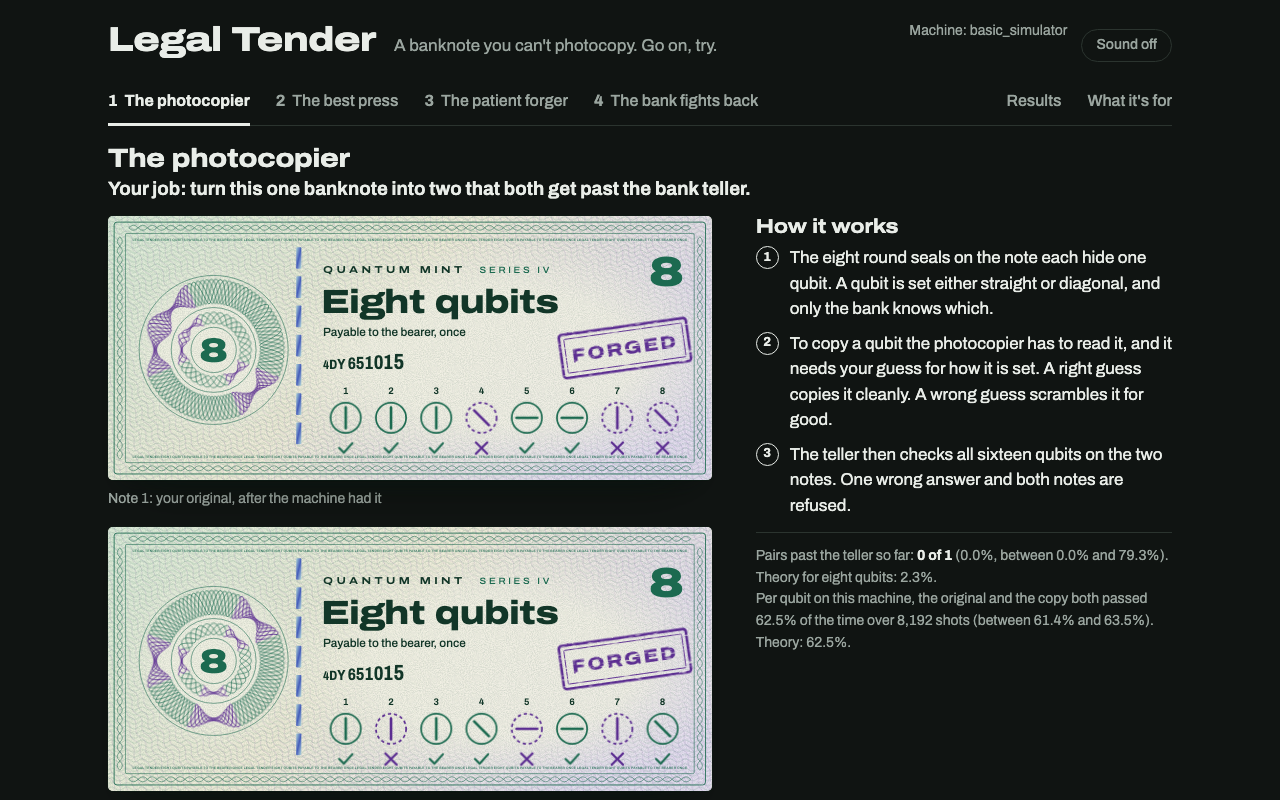
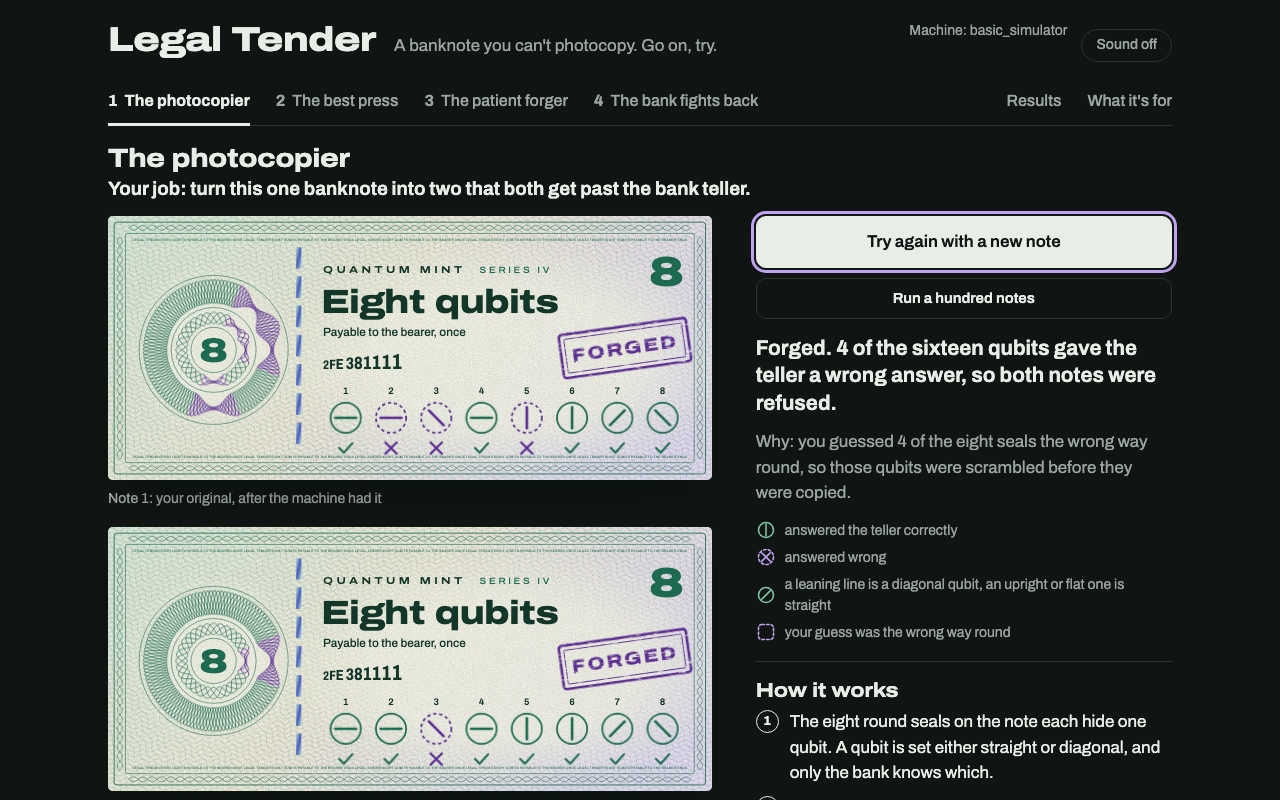
Put the buttons and the verdict beside the note so the first screen needs no scrolling

diff --git a/legal-tender/main.js b/legal-tender/main.js
@@ -624,12 +624,14 @@ function renderCopy(kind, { headline = '', grid = '', animate = false } = {}) {
         ${notes}
         ${guessRow}
         ${grid}
-        <p class="verdict-line${late}>${verdict}</p>
-        <p class="why${late}>${why}</p>
-        <div class="row${late}>${buttons}</div>
-        <div class="legend${late}>${key}</div>
       </div>
       <aside class="panel">
+        <div class="controls">
+          <div class="row${late}>${buttons}</div>
+          <p class="verdict-line${late}>${verdict}</p>
+          <p class="why${late}>${why}</p>
+          <div class="legend${late}>${key}</div>
+        </div>
         <h3>How it works</h3>
         <ol class="steps">${c.steps.map((step) => `<li>${step}</li>`).join('')}</ol>
         ${kind === 'press' ? proofLine() : ''}
@@ -758,13 +760,15 @@ function renderUpgrade({ headline = '', grid = '', animate = false } = {}) {
         <p class="hint">${S.ways === 'six' ? 'Straight, diagonal or circular. The forger has a third thing to get wrong.' : 'Straight or diagonal. This is the note from the first three acts.'}</p>
         ${notes}
         ${grid}
-        <p class="verdict-line${late}>${verdict}</p>
-        <p class="why${late}>${why}</p>
-        <div class="row${late}>${buttons}</div>
-        <div class="legend${late}>${key}</div>
         <p class="tally">${tally}</p>
       </div>
       <aside class="panel">
+        <div class="controls">
+          <div class="row${late}>${buttons}</div>
+          <p class="verdict-line${late}>${verdict}</p>
+          <p class="why${late}>${why}</p>
+          <div class="legend${late}>${key}</div>
+        </div>
         <h3>How it works</h3>
         <ol class="steps">
           <li>The forger's best press was built for the note you have been printing, which sets each qubit one of four ways.</li>
@@ -965,6 +969,7 @@ function renderPatient({ headline = '', grid = '', animate = false, part = 'heis
   const heist = hasHeist();
   const mine = (key) => (part === key ? { headline, grid, animate } : { headline: '', grid: '', animate: false });
   let desk = '';
+  let controls = '';
   let how;
   if (heist) {
     const options = heistChoices();
@@ -1003,10 +1008,12 @@ function renderPatient({ headline = '', grid = '', animate = false, part = 'heis
     desk = `${notes}
       <div class="guess-row heist-row"><p class="guess-label">Visits per probe</p><div class="choice" id="heist-visits" role="group" aria-label="Visits to the teller for each probe">${options.map((n) => `<button data-n="${n}" aria-pressed="${n === N}">${n}</button>`).join('')}</div></div>
       ${m.grid}
-      <p class="verdict-line${late}>${verdict}</p>
-      <p class="why${late}>${why}</p>
-      <div class="row${late}><button class="do" id="heist">${h && !m.grid ? 'Try again with a new note' : 'Start the heist'}</button><button class="do quiet" id="heists">Run a hundred heists</button></div>
       <p class="tally">${tally}</p>`;
+    controls = `<div class="controls">
+        <div class="row${late}><button class="do" id="heist">${h && !m.grid ? 'Try again with a new note' : 'Start the heist'}</button><button class="do quiet" id="heists">Run a hundred heists</button></div>
+        <p class="verdict-line${late}>${verdict}</p>
+        <p class="why${late}>${why}</p>
+      </div>`;
     how = `<li>This only works if the teller hands a good note back after checking it.</li>
       <li>The forger touches one qubit very lightly, sends the note for a check, and repeats. A light touch rarely spoils the note, and enough touches name the qubit.</li>
       <li>One failed check and the note is seized. If all eight seals are read, the forger prints copies the teller cannot tell from the original.</li>
@@ -1024,6 +1031,7 @@ function renderPatient({ headline = '', grid = '', animate = false, part = 'heis
     <section class="counter">
       <div class="desk">${desk}</div>
       <aside class="panel">
+        ${controls}
         <h3>How it works</h3>
         <ol class="steps">${how}</ol>
       </aside>

diff --git a/legal-tender/main.css b/legal-tender/main.css
@@ -79,6 +79,13 @@ html, body { margin: 0; background: #E8EBE6; }
 .brief h2 { margin-bottom: 4px; }
 .brief .goal { margin: 0; max-width: 60ch; }
 .panel h3 { margin-top: 0; }
+/* What you press and what came of it sit beside the note, so neither needs a scroll. */
+.controls { border-bottom: 1px solid var(--rule); padding-bottom: 18px; margin-bottom: 18px; }
+.controls .row { margin: 0; }
+.controls .row .do { flex: 1 1 0; white-space: nowrap; padding: 10px 12px; font-size: 15px; }
+.controls .row .do:first-child { flex-basis: 100%; padding: 14px 18px; font-size: 17px; }
+.controls .verdict-line { margin-top: 16px; }
+.controls .legend:empty { display: none; }
 .card, .below { max-width: 780px; }
 .below { margin-top: 12px; }
 
